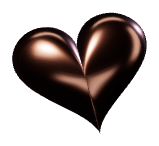
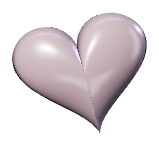
Connect approved desktop gift landing to existing game routes

diff --git a/src/preview/StudioScene.tsx b/src/preview/StudioScene.tsx
@@ -1,21 +1,22 @@
 import {useEffect,useRef,useState} from 'react';
 import * as T from 'three';
 import {createHeartGeometry} from './heartGeometry';
+import {createHeroMaterials} from './heroMaterials';
 import {createGameObject,normalizeSculpture,studioMaterials} from './studioObjects';
 import {gameCatalog} from '../games/catalog';
 
-type Props={mode:'hearts'|'games';selected?:string;paused:boolean;impulse?:number;onSelect?:(id:string)=>void};
+type Props={mode:'hearts'|'games';selected?:string;paused:boolean;impulse?:number;onSelect?:(id:string)=>void;onUnavailable?:()=>void};
 const heartLayout=[[1.2,.25,1.1,1.82,-.25],[3.55,-1.55,.2,1.2,.3],[3.45,2.18,-1.8,1.12,.35],[-.1,2.3,-1,.68,-.5],[5.1,.55,-1,.7,.1],[.15,-2.4,-1.8,.67,.3]];
 const heroLayout=[[-3.15,.65,.55,.65,-.25],[3.5,1.45,-1.1,.5,.16],[3.15,-1.7,.65,.62,.28]];
 export default function StudioScene(props:Props){
- const host=useRef<HTMLDivElement>(null),controls=useRef(props),redraw=useRef<()=>void>(()=>{}),[ready,setReady]=useState(false),[mounted,setMounted]=useState(props.mode==='hearts');
+ const host=useRef<HTMLDivElement>(null),controls=useRef(props),redraw=useRef<()=>void>(()=>{}),[ready,setReady]=useState(false),[failed,setFailed]=useState(false),[mounted,setMounted]=useState(props.mode==='hearts');
  controls.current=props;
  useEffect(()=>{if(mounted)return;const observer=new IntersectionObserver(([entry])=>{if(entry.isIntersecting){setMounted(true);observer.disconnect();}},{rootMargin:'250px'});observer.observe(host.current!);return()=>observer.disconnect();},[mounted]);
  useEffect(()=>{redraw.current();},[props.paused,props.selected,props.impulse]);
  useEffect(()=>{
   if(!mounted)return;
   const node=host.current!;let renderer:T.WebGLRenderer;
-  try{renderer=new T.WebGLRenderer({alpha:true,antialias:true,powerPreference:'low-power'});}catch{return;}
+  try{renderer=new T.WebGLRenderer({alpha:true,antialias:true,powerPreference:'low-power'});}catch{setFailed(true);controls.current.onUnavailable?.();return;}
   const scene=new T.Scene(),camera=new T.PerspectiveCamera(38,1,.1,50),materials=studioMaterials();
   renderer.setPixelRatio(Math.min(devicePixelRatio,1.5));renderer.toneMapping=T.ACESFilmicToneMapping;renderer.toneMappingExposure=1.08;
   const environmentScene=new T.Scene();environmentScene.background=new T.Color('#121016');
@@ -25,7 +26,7 @@ export default function StudioScene(props:Props){
   }
   const pmrem=new T.PMREMGenerator(renderer),environment=pmrem.fromScene(environmentScene,.06);scene.environment=environment.texture;pmrem.dispose();
   const key=new T.DirectionalLight('#ffe5d1',3);key.position.set(-4,6,8);scene.add(key);const rim=new T.DirectionalLight('#c6caff',1.7);rim.position.set(5,2,-3);scene.add(rim);scene.add(new T.HemisphereLight('#d5cbd6','#110d13',.55));
-  const heroChrome=materials.chrome.clone(),heroGold=materials.gold.clone();heroChrome.color.set('#818996');heroChrome.roughness=.18;heroChrome.envMapIntensity=1.5;heroGold.color.set('#ca9483');heroGold.roughness=.23;heroGold.envMapIntensity=1.3;
+  const heroMaterials=createHeroMaterials();
   const objects:T.Group[]=[];
   if(props.mode==='hearts')heartLayout.forEach((_,i)=>{const g=new T.Group();g.add(new T.Mesh(createHeartGeometry(),i===1||i===3?materials.gold:materials.chrome));scene.add(g);objects.push(g);});
   else gameCatalog.forEach(game=>{const g=normalizeSculpture(createGameObject(game.id,materials,()=>redraw.current()));g.userData.game=game.id;g.traverse(o=>{if(o instanceof T.Mesh){const originals=Array.isArray(o.material)?o.material:[o.material];const copies=originals.map(original=>{const material=original.clone() as T.MeshStandardMaterial;material.userData.baseColor=material.color.clone();material.userData.baseEnvironment=material.envMapIntensity;return material;});o.material=Array.isArray(o.material)?copies:copies[0];}});scene.add(g);objects.push(g);});
@@ -33,7 +34,7 @@ export default function StudioScene(props:Props){
   let ribbon:T.Mesh<T.TubeGeometry,T.MeshStandardMaterial>|undefined;
   if(props.mode==='hearts'){
    const curve=new T.CatmullRomCurve3([new T.Vector3(-4.6,-.1,1.6),new T.Vector3(-3.5,1.45,.5),new T.Vector3(-2.5,1.8,-1.4),new T.Vector3(0,.8,-2.8),new T.Vector3(3.2,-.4,-1),new T.Vector3(4.1,-1.25,.8)]);
-   const material=heroGold.clone();material.color.set('#936b59');material.roughness=.4;material.envMapIntensity=1.2;
+   const material=materials.gold.clone();material.color.set('#936b59');material.roughness=.4;material.envMapIntensity=1.2;
    ribbon=new T.Mesh(new T.TubeGeometry(curve,128,.026,8,false),material);scene.add(ribbon);
   }
   let width=0,height=0,viewWidth=0,viewHeight=0,viewLeft=0,viewTop=0,nodeLeft=0,nodeTop=0,mobile=false,time=0,curveTime=0,last=0,visible=true,disposed=false,loaded=false,impulse=props.impulse??0,energy=0,hovered=-1;
@@ -50,7 +51,7 @@ export default function StudioScene(props:Props){
    objects.forEach((g,i)=>{
     let x=0,y=0,z=0,size=1,rx=.13,ry=-.2,rz=0;
     if(props.mode==='hearts'){
-     g.visible=mobile||i<heroLayout.length;if(!g.visible)return;const base=mobile?heartLayout[i]:heroLayout[i];[x,y,z,size,rz]=base;const heart=g.children[0] as T.Mesh;heart.material=mobile?(i===1||i===3?materials.gold:materials.chrome):(i===1?heroChrome:heroGold);if(mobile){x=(x-2.15)*.65;y*=.9;size*=1.05;}else{const entry=controls.current.paused?1:1-Math.pow(1-Math.min(1,time/.9),3);ry-=(1-entry)*.18;y-=(1-entry)*.14;size*=.95+.05*entry;if(active&&hovered===i){ry+=.28+hoverPoint.x*.38;rx-=hoverPoint.y*.23;z+=.65;size*=1.075;}}
+     g.visible=mobile||i<heroLayout.length;if(!g.visible)return;const base=mobile?heartLayout[i]:heroLayout[i];[x,y,z,size,rz]=base;const heart=g.children[0] as T.Mesh;heart.material=mobile?(i===1||i===3?materials.gold:materials.chrome):heroMaterials[i];if(mobile){x=(x-2.15)*.65;y*=.9;size*=1.05;}else{const entry=controls.current.paused?1:1-Math.pow(1-Math.min(1,time/.9),3);ry-=(1-entry)*.18;y-=(1-entry)*.14;size*=.95+.05*entry;if(active&&hovered===i){ry+=.28+hoverPoint.x*.38;rx-=hoverPoint.y*.23;z+=.65;size*=1.075;}}
      if(active){y+=Math.sin(time*.6+i)*(mobile?.13:.04);x+=Math.sin(time*.5+i*.8)*(mobile?.08:.035);ry+=Math.sin(time*.35+i)*(mobile?.19:.045);rz+=Math.sin(time*.5+i)*(mobile?.06:.025);}
      x+=pointer.x*.13*(i%2?1:-1);y+=pointer.y*.1;z+=energy*Math.sin(i*1.8);size*=1+energy*.055;
     }else{
@@ -76,12 +77,12 @@ export default function StudioScene(props:Props){
   const move=(event:PointerEvent)=>{if(props.mode==='hearts')pointer.set((event.clientX+scrollX-nodeLeft)/width*2-1,-(event.clientY+scrollY-nodeTop)/height*2+1);else{const box=canvas.getBoundingClientRect();pointer.set((event.clientX-box.left)/box.width*2-1,-(event.clientY-box.top)/box.height*2+1);}if(props.mode==='hearts'&&!mobile&&finePointer.matches&&!controls.current.paused){const local=new T.Vector2((event.clientX+scrollX-nodeLeft-viewLeft)/viewWidth*2-1,-(event.clientY+scrollY-nodeTop-viewTop)/viewHeight*2+1);ray.setFromCamera(local,camera);const hit=ray.intersectObjects(objects.filter(g=>g.visible),true)[0];hovered=hit?objects.findIndex(g=>g===hit.object.parent):-1;if(hit){const point=hit.object.worldToLocal(hit.point.clone());hoverPoint.set(T.MathUtils.clamp(point.x,-1,1),T.MathUtils.clamp(point.y,-1,1));}}if(!controls.current.paused&&props.mode==='games')render();};
   const click=(event:PointerEvent)=>{if(controls.current.paused)return;move(event);if(props.mode==='hearts'){energy=.6;return;}ray.setFromCamera(pointer,camera);const hit=ray.intersectObjects(objects,true)[0];if(hit){let obj:T.Object3D=hit.object;while(obj.parent&& !obj.userData.game)obj=obj.parent;if(obj.userData.game)controls.current.onSelect?.(obj.userData.game);}};
   const leave=()=>{pointer.set(0,0);hovered=-1;};
-  const lost=(event:Event)=>{event.preventDefault();renderer.setAnimationLoop(null);setReady(false);};
+  const lost=(event:Event)=>{event.preventDefault();renderer.setAnimationLoop(null);setReady(false);setFailed(true);controls.current.onUnavailable?.();};
   const observer=new ResizeObserver(resize);observer.observe(node);const intersection=new IntersectionObserver(([entry])=>{visible=entry.isIntersecting;if(visible)render(true);});intersection.observe(node);
   inputNode.addEventListener('pointermove',move);canvas.addEventListener('pointerdown',click);inputNode.addEventListener('pointerleave',leave);canvas.addEventListener('webglcontextlost',lost);
   resize();
   return()=>{disposed=true;redraw.current=()=>{};renderer.setAnimationLoop(null);observer.disconnect();intersection.disconnect();inputNode.removeEventListener('pointermove',move);canvas.removeEventListener('pointerdown',click);inputNode.removeEventListener('pointerleave',leave);canvas.removeEventListener('webglcontextlost',lost);canvas.remove();
-   const geometries=new Set<T.BufferGeometry>(),mats=new Set<T.Material>();scene.traverse(o=>{if(o instanceof T.Mesh){geometries.add(o.geometry);(Array.isArray(o.material)?o.material:[o.material]).forEach(m=>mats.add(m));}});geometries.forEach(g=>g.dispose());mats.forEach(m=>{const map=(m as T.MeshStandardMaterial).map;map?.dispose();m.dispose();});if(!mats.has(heroChrome))heroChrome.dispose();if(!mats.has(heroGold))heroGold.dispose();environment.dispose();environmentScene.traverse(o=>{if(o instanceof T.Mesh){o.geometry.dispose();o.material.dispose();}});renderer.dispose();renderer.forceContextLoss();};
+   const geometries=new Set<T.BufferGeometry>(),mats=new Set<T.Material>();scene.traverse(o=>{if(o instanceof T.Mesh){geometries.add(o.geometry);(Array.isArray(o.material)?o.material:[o.material]).forEach(m=>mats.add(m));}});geometries.forEach(g=>g.dispose());mats.forEach(m=>{const map=(m as T.MeshStandardMaterial).map;map?.dispose();m.dispose();});heroMaterials.forEach(material=>{if(!mats.has(material))material.dispose();});environment.dispose();environmentScene.traverse(o=>{if(o instanceof T.Mesh){o.geometry.dispose();o.material.dispose();}});renderer.dispose();renderer.forceContextLoss();};
  },[props.mode,mounted]);
- return <div ref={host} className={`rd-studio rd-studio-${props.mode}`} data-ready={ready}>{!ready&&<span className="rd-render-fallback" role="status">PREPARING YOUR GIFT</span>}</div>;
+ return <div ref={host} className={`rd-studio rd-studio-${props.mode}`} data-ready={ready||failed}>{failed&&props.mode==='games'?<img className="rd-gallery-fallback" src={`/images/landing-preview/games/${props.selected||'domino'}.png`} alt="" aria-hidden="true"/>:!ready&&<span className="rd-render-fallback" role="status">PREPARING YOUR GIFT</span>}</div>;
 }

diff --git a/src/preview/LandingPreview.tsx b/src/preview/LandingPreview.tsx
@@ -3,16 +3,21 @@ import {gameCatalog} from '../games/catalog';
 import {previewCopy} from './copy';
 import {attachHeroMotion} from './heroMotion';
 import {RasterHearts} from './RasterHearts';
+import {HeroDecorations,attachHeroSparks} from './HeroDecorations';
+import {Link} from '../app/Router';
+import './preview.css';
 const StudioScene=lazy(()=>import('./StudioScene'));
-export function LandingPreview(){
+export function LandingPreview({connected=false}:{connected?:boolean}){
  const [language,setLanguage]=useState<'ko'|'es'>(()=>localStorage.getItem('dos-language')==='es'?'es':'ko');
  const [selected,setSelected]=useState('domino'),[open,setOpen]=useState(false),[paused,setPaused]=useState(false),[impulse,setImpulse]=useState(0);
  const [reduced,setReduced]=useState(()=>matchMedia('(prefers-reduced-motion: reduce)').matches),[desktop,setDesktop]=useState(()=>matchMedia('(min-width:751px)').matches);
  const hero=useRef<HTMLElement>(null),coupleImage=useRef<HTMLImageElement>(null),[heroArtReady,setHeroArtReady]=useState(false),[raster,setRaster]=useState<boolean|null>(null),impulseValue=useRef(0);impulseValue.current=impulse;
  const envelope=useRef<HTMLButtonElement>(null),close=useRef<HTMLButtonElement>(null),wasOpen=useRef(false),stage=useRef<HTMLDivElement>(null),object=useRef<HTMLDivElement>(null),paper=useRef<HTMLElement>(null),letterText=useRef<HTMLDivElement>(null);const [scrollLetter,setScrollLetter]=useState(false);const copy=previewCopy[language],game=gameCatalog.find(g=>g.id===selected)!;
- useEffect(()=>{document.documentElement.lang=language==='es'?'es-DO':'ko';localStorage.setItem('dos-language',language);},[language]);
+ useEffect(()=>{document.documentElement.lang=language==='es'?'es-DO':'ko';document.title='Yeonseok ♡ Lisbeth';localStorage.setItem('dos-language',language);},[language]);
+ useEffect(()=>{if(!connected)return;const target=({'#games':'gift-games','#papi-letter':'gift-letter','#gift-games':'gift-games','#gift-letter':'gift-letter'} as Record<string,string>)[location.hash];if(!target)return;const frame=requestAnimationFrame(()=>document.getElementById(target)?.scrollIntoView({behavior:'instant',block:'start'}));return()=>cancelAnimationFrame(frame);},[connected]);
  useEffect(()=>{const query=matchMedia('(prefers-reduced-motion: reduce)'),update=()=>setReduced(query.matches);query.addEventListener('change',update);return()=>query.removeEventListener('change',update);},[]);
  useEffect(()=>{const query=matchMedia('(min-width:751px)'),update=()=>setDesktop(query.matches);query.addEventListener('change',update);return()=>query.removeEventListener('change',update);},[]);
+ useEffect(()=>attachHeroSparks(hero.current!,paused||reduced),[paused,reduced]);
  useEffect(()=>attachHeroMotion(hero.current!,paused||reduced,()=>impulseValue.current),[paused,reduced,raster,desktop]);
  useEffect(()=>{let alive=true;coupleImage.current!.decode().catch(()=>{}).then(()=>requestAnimationFrame(()=>requestAnimationFrame(()=>{if(alive){const canvas=document.createElement('canvas'),gl=canvas.getContext('webgl2')||canvas.getContext('webgl');const info=gl?.getExtension('WEBGL_debug_renderer_info');const software=!gl||(info&&/swiftshader|llvmpipe|software/i.test(gl.getParameter(info.UNMASKED_RENDERER_WEBGL)));gl?.getExtension('WEBGL_lose_context')?.loseContext();setRaster(Boolean(software));setHeroArtReady(true);}})));return()=>{alive=false;};},[]);
  useEffect(()=>{if(open)close.current?.focus({preventScroll:true});else if(wasOpen.current)envelope.current?.focus({preventScroll:true});wasOpen.current=open;},[open]);
@@ -21,19 +26,19 @@ export function LandingPreview(){
  const openLetter=()=>{document.getElementById('gift-letter')?.scrollIntoView({behavior:'instant',block:'start'});setOpen(true);};
  const closeLetter=()=>setOpen(false);
  return <main className={`rd-page ${reduced||paused?'rd-still':''}`}>
-  <header className="rd-nav"><a href="#gift-top" className="rd-brand">Y <i>♡</i> L</a><nav aria-label={language==='ko'?'선물 메뉴':'Menú del regalo'}><button onClick={()=>go('gift-games')}>{copy.games}</button><button onClick={openLetter}>{copy.letter}</button><div className="rd-languages"><button aria-pressed={language==='ko'} onClick={()=>setLanguage('ko')}>KO</button><button aria-pressed={language==='es'} onClick={()=>setLanguage('es')}>ES</button></div></nav></header>
+  <header className="rd-nav"><a href="#gift-top" className="rd-brand">Y <i>♡</i> L</a><nav aria-label={language==='ko'?'선물 메뉴':'Menú del regalo'}><button onClick={()=>go('gift-games')}>{copy.games}</button><button onClick={openLetter}>{copy.letter}</button>{connected&&<Link href="/feedback">{language==='ko'?'너의 아이디어':'Tus ideas'}</Link>}<div className="rd-languages"><button aria-pressed={language==='ko'} onClick={()=>setLanguage('ko')}>KO</button><button aria-pressed={language==='es'} onClick={()=>setLanguage('es')}>ES</button></div></nav></header>
   <section ref={hero} className="rd-hero" id="gift-top">
-   <div className="rd-scene-space" aria-hidden="true"><div className="rd-scene-light"><div/></div><div className="rd-scene-fill"/><div className="rd-scene-shadow"/><div className="rd-scene-floor-light"/></div>
-   <div className="rd-hero-stage"><img className="rd-heart-fallback" src="/images/landing-preview/hero/hearts-neutral.png" width="1440" height="816" loading="eager" decoding="sync" alt="" aria-hidden="true"/>{heroArtReady&&(raster&&desktop?<RasterHearts/>:<Suspense fallback={<div className="rd-render-fallback" role="status">PREPARING YOUR GIFT</div>}><StudioScene mode="hearts" paused={paused||reduced} impulse={impulse}/></Suspense>)}</div>
+   <HeroDecorations/><div className="rd-scene-space" aria-hidden="true"><div className="rd-scene-light"><div/></div><div className="rd-scene-fill"/><div className="rd-scene-shadow"/><div className="rd-scene-floor-light"/></div>
+   <div className="rd-hero-stage"><img className="rd-heart-fallback" src="/images/landing-preview/hero/hearts-neutral.png" width="1440" height="816" loading="eager" decoding="sync" alt="" aria-hidden="true"/>{heroArtReady&&(raster&&desktop?<RasterHearts/>:<Suspense fallback={<div className="rd-render-fallback" role="status">PREPARING YOUR GIFT</div>}><StudioScene mode="hearts" onUnavailable={()=>setRaster(true)} paused={paused||reduced} impulse={impulse}/></Suspense>)}</div>
    <figure className="rd-couple"><div className="rd-couple-drift"><div className="rd-couple-art"><img className="rd-portrait-shadow" src="/images/landing-preview/hero/portrait-shadow.png" width="760" height="760" loading="eager" decoding="sync" alt="" aria-hidden="true"/><img ref={coupleImage} src="/images/yeonseok-lisbeth-cutout.webp" width="1254" height="1254" fetchPriority="high" loading="eager" decoding="sync" alt={language==='ko'?'연석과 Lisbeth의 기존 커플 캐리커처':'La caricatura de Yeonseok y Lisbeth'}/></div></div><figcaption><span>YEONSEOK <i>♡</i> LISBETH</span><small>{language==='ko'?'우리 둘, 같은 편.':'Tú y yo, del mismo lado.'}</small></figcaption></figure>
    <div className="rd-hero-copy"><span className="rd-kicker">FOR MY BABY, LISBETH</span><h1><span className="rd-baby-plane"><span className="rd-baby-arrival">{copy.title[0]}</span></span><span className="rd-message-plane"><span className="rd-message-arrival">{language==='ko'?<>이제 같이<span className="rd-mobile-break"><br/></span> 놀자.</>:<>juguemos<span className="rd-mobile-break"><br/></span> juntos.</>}</span></span></h1><p>{copy.body}</p><div className="rd-actions"><button className="rd-main-action" onClick={()=>go('gift-games')}>{copy.primary}<span>↗</span></button><button className="rd-line-action" onClick={openLetter}>{copy.secondary}<span>↗</span></button></div></div>
-   <div className="rd-hero-floor"><span>01 / FOR THE TWO OF US</span><div><button disabled={paused||reduced} onClick={()=>setImpulse(i=>i+1)}>{copy.nudge}</button><button aria-pressed={!paused&&!reduced} disabled={reduced} onClick={()=>setPaused(p=>!p)}>{reduced?copy.motionReduced:paused?copy.motionOff:copy.motionOn}</button></div><span className="rd-preview-badge">{copy.badge}</span></div>
+   <div className="rd-hero-floor"><span>01 / FOR THE TWO OF US</span><div><button disabled={paused||reduced} onClick={()=>setImpulse(i=>i+1)}>{copy.nudge}</button><button aria-pressed={!paused&&!reduced} disabled={reduced} onClick={()=>setPaused(p=>!p)}>{reduced?copy.motionReduced:paused?copy.motionOff:copy.motionOn}</button></div><span className="rd-preview-badge">{connected?'YEONSEOK ♡ LISBETH':copy.badge}</span></div>
   </section>
   <section className="rd-story"><span className="rd-kicker">A PLACE WHERE WE UNDERSTAND EACH OTHER</span><h2>{copy.storyTitle}</h2><div><p>{copy.story}</p><p><b>한국어 <i>↔</i> Español</b>{copy.bridge}</p></div></section>
   <section className="rd-games" id="gift-games"><header><span className="rd-kicker">02 / EIGHT LITTLE WORLDS</span><h2>{copy.gamesTitle}</h2><p>{copy.gamesBody}</p></header>
    <div className="rd-game-stage"><div className="rd-game-sculptures">{heroArtReady&&<Suspense fallback={<div className="rd-render-fallback" role="status">PREPARING YOUR GIFT</div>}><StudioScene mode="games" selected={selected} paused={paused||reduced} onSelect={setSelected}/></Suspense>}</div><div className="rd-game-caption" aria-live="polite"><span>{String(gameCatalog.indexOf(game)+1).padStart(2,'0')} / 08</span><h3>{game.title[language]}</h3><p>{game.subtitle[language]}</p></div></div>
    <div className="rd-game-choices" role="group" aria-label={copy.games}>{gameCatalog.map((item,i)=><button key={item.id} aria-pressed={selected===item.id} onClick={()=>setSelected(item.id)}><small>{String(i+1).padStart(2,'0')}</small><span>{item.title[language]}</span><i>↗</i></button>)}</div>
-   <p className="rd-preview-note">{copy.previewNote}</p>
+   <p className="rd-preview-note">{connected?<Link className="rd-game-start rd-main-action" href={`/play?game=${selected}`}>{copy.start}<span>↗</span></Link>:copy.previewNote}</p>
   </section>
   <section className={`rd-letter-section ${open?'is-open':''}`} id="gift-letter" aria-labelledby="gift-letter-heading" onKeyDown={e=>{if(e.key==='Escape'&&open){e.preventDefault();closeLetter();}}}>
    <header><span className="rd-kicker">03 / SEALED WITH LOVE</span><h2 id="gift-letter-heading">{copy.letterTitle}</h2><p>{language==='ko'?'실링을 눌러, baby. 이 편지는 너한테만.':'Toca el sello, baby. Esta carta es solo para ti.'}</p></header>

diff --git a/src/preview/HeroDecorations.tsx b/src/preview/HeroDecorations.tsx
@@ -1,0 +1,26 @@
+import type {CSSProperties} from 'react';
+const stars=[[8,13,10],[17,29,5],[28,21,12],[11,57,6],[24,62,8],[7,76,4],[19,45,4],[26,40,6],[78,9,8],[89,23,11],[95,39,5],[83,46,5],[94,61,12],[80,69,6],[88,79,4],[31,8,4]];
+const hearts=[[14,37,32,0,-18],[24,14,25,2,16],[87,13,30,1,20],[91,56,34,2,-14]];
+export function HeroDecorations(){return <div className="rd-hero-decorations" aria-hidden="true">
+ <img className="rd-cosmic-veil" src="/images/landing-preview/hero/nebula-fringe.png" width="1440" height="816" alt=""/>
+ {stars.map(([x,y,size],i)=><span key={i} className={`rd-star ${i%4===0?'rd-star-twinkle':''}`} style={{left:`${x}%`,top:`${y}%`,width:size,height:size,opacity:i%3===0?.8:.42,animationDelay:`${i*.7}s`}}/>)}
+ {hearts.map(([x,y,size,color,angle],i)=><img key={i} className="rd-tiny-heart" src={`/images/landing-preview/hero/heart-${color}-neutral.png`} width={size} height={size} alt="" style={{left:`${x}%`,top:`${y}%`,width:size,transform:`rotate(${angle}deg)`} as CSSProperties}/>)}
+ <span className="rd-meteor"/>
+ <div className="rd-hero-sparks" data-particle-count="0"/>
+ </div>;}
+
+export function attachHeroSparks(hero:HTMLElement,paused:boolean){
+ const host=hero.querySelector<HTMLElement>('.rd-hero-sparks')!,fine=matchMedia('(hover:hover) and (pointer:fine)'),particles=new Map<HTMLElement,Animation>();let last=0,lastX=-1000,lastY=-1000,visible=true,meteorCount=0;const meteor=hero.querySelector<HTMLElement>('.rd-meteor')!;let meteorAnimation:Animation|undefined;
+ const emit=(event:PointerEvent)=>{
+  const now=performance.now();if(paused||!fine.matches||document.hidden||now-last<750||Math.hypot(event.clientX-lastX,event.clientY-lastY)<80||particles.size>=8)return;
+  if((event.target as Element).closest('button,a'))return;
+  for(const node of hero.querySelectorAll('.rd-couple,.rd-baby-plane,.rd-message-plane,.rd-actions')){const r=node.getBoundingClientRect();if(event.clientX>=r.left-18&&event.clientX<=r.right+18&&event.clientY>=r.top-18&&event.clientY<=r.bottom+18)return;}
+  const box=hero.getBoundingClientRect();last=now;lastX=event.clientX;lastY=event.clientY;
+  for(let i=0;i<4;i++){const node=document.createElement('span');node.className=i===1?'rd-spark-heart':'rd-star rd-spark-star';node.style.left=`${event.clientX-box.left}px`;node.style.top=`${event.clientY-box.top}px`;if(i===1)node.style.backgroundImage="url('/images/landing-preview/hero/heart-1-neutral.png')";host.appendChild(node);const angle=i*Math.PI/2+.35,dx=Math.cos(angle)*38,dy=Math.sin(angle)*30-10;
+   const animation=node.animate([{opacity:0,transform:'translate3d(0,0,0) scale(.95)'},{opacity:.9,offset:.18,transform:`translate3d(${dx*.3}px,${dy*.3}px,0) scale(1.06)`},{opacity:0,transform:`translate3d(${dx}px,${dy}px,0) scale(.95)`}],{duration:650,easing:'cubic-bezier(0.23,1,0.32,1)'});particles.set(node,animation);animation.finished.catch(()=>{}).finally(()=>{particles.delete(node);node.remove();host.dataset.particleCount=String(particles.size);});
+  }host.dataset.particleCount=String(particles.size);
+ };
+ const passMeteor=()=>{if(!visible||document.hidden||meteorAnimation)return;const right=meteorCount++%2===0;meteor.style.left=right?'88%':'14%';meteor.style.top=right?'13%':'20%';meteor.style.rotate=right?'146deg':'34deg';meteorAnimation=meteor.animate([{opacity:0,transform:'translate3d(0,0,0)'},{opacity:.7,offset:.22,transform:`translate3d(${right?-28:28}px,18px,0)`},{opacity:0,transform:`translate3d(${right?-110:110}px,70px,0)`}],{duration:1100,easing:'linear'});meteorAnimation.finished.catch(()=>{}).finally(()=>{meteorAnimation=undefined;});};
+ const observer=new IntersectionObserver(([entry])=>{visible=entry.isIntersecting;if(!visible)meteorAnimation?.cancel();});let first:number|undefined,repeat:number|undefined;if(!paused){hero.addEventListener('pointermove',emit);observer.observe(hero);first=window.setTimeout(passMeteor,4500);repeat=window.setInterval(passMeteor,15000);}
+ return()=>{observer.disconnect();clearTimeout(first);clearInterval(repeat);meteorAnimation?.cancel();hero.removeEventListener('pointermove',emit);particles.forEach((animation,node)=>{animation.cancel();node.remove();});particles.clear();host.dataset.particleCount='0';};
+}

diff --git a/src/preview/preview.css b/src/preview/preview.css
@@ -1,8 +1,8 @@
 @font-face{font-family:GiftSerif;src:url('/fonts/gowun-batang-display.woff2') format('woff2');font-display:swap}
 @font-face{font-family:GiftSans;src:url('/fonts/dm-sans-regular.ttf') format('truetype');font-display:swap}
 @font-face{font-family:GiftSans;src:url('/fonts/dm-sans-700.ttf') format('truetype');font-weight:700;font-display:swap}
-:root{font-family:GiftSans,Arial,sans-serif;color:#efdfd6;background:#0c080e;font-synthesis:none;--rose:#d3a491;--muted:#c1acb4;--line:#d3a49135}
-*{box-sizing:border-box}html{scroll-behavior:smooth}body{margin:0}button,a{-webkit-tap-highlight-color:transparent}button{font:inherit;color:inherit;cursor:pointer;border:0;background:none}button:disabled{cursor:default;opacity:.5}button[hidden]{display:none}a{color:inherit;text-decoration:none}button:focus-visible,a:focus-visible,[tabindex]:focus-visible{outline:2px solid #f5c3a6;outline-offset:5px}h1,h2,h3,p{margin:0}p{line-height:1.8}i{font-style:normal}
+.rd-page{font-family:GiftSans,Arial,sans-serif;color:#efdfd6;background:#0c080e;font-synthesis:none;--rose:#d3a491;--muted:#c1acb4;--line:#d3a49135}
+.rd-page,.rd-page *{box-sizing:border-box}.rd-page :where(button,a){-webkit-tap-highlight-color:transparent}:where(.rd-page) button{font:inherit;color:inherit;cursor:pointer;border:0;background:none}.rd-page button:disabled{cursor:default;opacity:.5}.rd-page button[hidden]{display:none}.rd-page a{color:inherit;text-decoration:none}.rd-page :where(button,a,[tabindex]):focus-visible{outline:2px solid #f5c3a6;outline-offset:5px}.rd-page :where(h1,h2,h3,p){margin:0}.rd-page p{line-height:1.8}.rd-page i{font-style:normal}
 .rd-page{overflow:clip;background:radial-gradient(ellipse at 65% 12%,#24182255,transparent 33%),#0c080e}
 .rd-nav{height:84px;display:flex;justify-content:space-between;align-items:center;padding:0 6vw;position:relative;z-index:4;border-bottom:1px solid var(--line)}
 .rd-brand{font:29px Georgia,serif;letter-spacing:5px}.rd-brand i{color:var(--rose);font-size:20px}.rd-nav nav{display:flex;align-items:center;gap:28px;font-size:15px}.rd-nav button{min-height:44px}.rd-languages{border-left:1px solid var(--line);padding-left:24px;display:flex;gap:4px}.rd-languages button{padding:8px;color:#b8a2ac}.rd-languages button[aria-pressed=true]{color:#f0ddce;border-bottom:1px solid var(--rose)}
@@ -56,3 +56,10 @@
  .rd-envelope-object{width:min(70vw,820px);height:200px;top:max(calc(50% - 100px),150px)}
  .rd-paper{padding:18px 30px}.rd-paper-address{margin-top:12px}.rd-paper h3{font-family:Georgia,GiftSerif,serif;font-size:27px;margin:10px 0 14px}.rd-paper-signature{font-family:Georgia,GiftSerif,serif;font-size:22px;margin-top:14px}.rd-letter-text{font-size:15.5px;line-height:1.65}
 }
+
+.rd-hero-decorations{display:none}
+@media(min-width:1024px) and (pointer:fine){.rd-hero-decorations{display:block;position:absolute;inset:0;z-index:1;pointer-events:none;overflow:hidden}.rd-star{position:absolute;background:linear-gradient(135deg,#fff2df,#d8aacd);clip-path:polygon(50% 0,61% 39%,100% 50%,61% 61%,50% 100%,39% 61%,0 50%,39% 39%)}.rd-star-twinkle{animation:rd-twinkle 8s ease-in-out infinite}.rd-tiny-heart{position:absolute;display:block;height:auto;opacity:.8}.rd-spark-star{width:12px;height:12px}.rd-spark-heart{position:absolute;width:19px;height:19px;background-size:contain;background-repeat:no-repeat}.rd-game-start{min-width:190px;text-align:left}.rd-nav nav>a{min-height:44px;display:inline-flex;align-items:center}.rd-still .rd-star{animation:none}}
+@keyframes rd-twinkle{0%,100%{opacity:.25}50%{opacity:.8}}
+@media(prefers-reduced-motion:reduce){.rd-star{animation:none!important}}
+
+.rd-cosmic-veil{position:absolute;inset:0;width:100%;height:100%;opacity:.32}.rd-meteor{position:absolute;width:90px;height:2px;background:linear-gradient(90deg,#fff0da,transparent);opacity:0;transform-origin:0 50%;border-radius:50%}.rd-gallery-fallback{display:block;width:100%;height:100%;object-fit:contain}

diff --git a/vite.preview.config.ts b/vite.preview.config.ts
@@ -4,7 +4,7 @@ import { fileURLToPath } from 'node:url';
 import { defineConfig } from 'vite';
 
 const root = fileURLToPath(new URL('.', import.meta.url));
-const previewAssets = ['images/yeonseok-lisbeth-cutout.webp', 'fonts/gowun-batang-display.woff2', 'fonts/GOWUN-BATANG-OFL.txt', 'fonts/dm-sans-regular.ttf', 'fonts/dm-sans-700.ttf', 'fonts/DM-SANS-OFL.txt', 'images/landing-preview/organic-rose-generated.png', ...['hearts-neutral','light-key','light-fill','light-shadow','light-floor','curve-neutral','portrait-shadow',...Array.from({length:3},(_,i)=>['neutral','left','right'].map(light=>`heart-${i}-${light}`)).flat()].map(name=>`images/landing-preview/hero/${name}.png`), 'images/hwatu/01-01.svg', 'images/hwatu/03-01.svg', 'images/hwatu/08-01.svg'];
+const previewAssets = ['images/yeonseok-lisbeth-cutout.webp', 'fonts/gowun-batang-display.woff2', 'fonts/GOWUN-BATANG-OFL.txt', 'fonts/dm-sans-regular.ttf', 'fonts/dm-sans-700.ttf', 'fonts/DM-SANS-OFL.txt', 'images/landing-preview/organic-rose-generated.png', ...['hearts-neutral','light-key','light-fill','light-shadow','light-floor','curve-neutral','portrait-shadow','nebula-fringe',...Array.from({length:3},(_,i)=>['neutral','left','right'].map(light=>`heart-${i}-${light}`)).flat()].map(name=>`images/landing-preview/hero/${name}.png`), ...['davinci','catchmind','domino','jaipur','splendor','minhwatu','marble','rhythm'].map(game=>`images/landing-preview/games/${game}.png`), 'images/hwatu/01-01.svg', 'images/hwatu/03-01.svg', 'images/hwatu/08-01.svg'];
 
 export default defineConfig({
   server: { host: '127.0.0.1', port: 5204 },

diff --git a/landing-preview.html b/landing-preview.html
@@ -1,1 +1,1 @@
-<!doctype html><html lang="ko"><head><meta charset="UTF-8"/><meta name="viewport" content="width=device-width,initial-scale=1"/><meta name="theme-color" content="#0b090c"/><meta name="robots" content="noindex,nofollow"/><title>For my baby · Design preview</title><style>html,body,#preview-root{margin:0;min-height:100vh;background:#0c080e;color:#efdfd6}#preview-root>.boot-note{display:grid;place-items:center;height:100vh;font:12px system-ui;letter-spacing:.2em;color:#d3a491}</style><link rel="preload" as="image" href="/images/yeonseok-lisbeth-cutout.webp" fetchpriority="high"/></head><body><div id="preview-root"><div class="boot-note" role="status">FOR MY BABY · LISBETH</div></div><script type="module" src="/src/preview/main.tsx"></script></body></html>
+<!doctype html><html lang="ko"><head><meta charset="UTF-8"/><meta name="viewport" content="width=device-width,initial-scale=1"/><meta name="theme-color" content="#0b090c"/><meta name="robots" content="noindex,nofollow"/><title>For my baby · Design preview</title><style>html,body,#preview-root{margin:0;min-height:100vh;background:#0c080e;color:#efdfd6}#preview-root>.boot-note{display:grid;place-items:center;height:100vh;font:12px system-ui;letter-spacing:.2em;color:#d3a491}</style><link rel="preload" as="image" href="/images/yeonseok-lisbeth-cutout.webp" fetchpriority="high"/></head><body style="margin:0;background:#0c080e"><div id="preview-root"><div class="boot-note" role="status">FOR MY BABY · LISBETH</div></div><script type="module" src="/src/preview/main.tsx"></script></body></html>

diff --git a/src/app/App.tsx b/src/app/App.tsx
@@ -1,5 +1,6 @@
 import { Suspense, lazy, useEffect, useState } from 'react';
 import { Landing } from '../landing/Landing';
+import { LandingPreview } from '../preview/LandingPreview';
 import { Link } from './Router';
 import { canEnterPlayRoute, DESKTOP_GAME_QUERY } from '../core/display';
 import { DesktopGameNotice } from './DesktopGameNotice';
@@ -22,7 +23,7 @@ export function App() {
     window.addEventListener('popstate', onPop);
     return () => window.removeEventListener('popstate', onPop);
   }, []);
-  if (path === '/') return <Landing />;
+  if (path === '/') return canPlay ? <LandingPreview connected/> : <Landing />;
   if (path !== '/feedback' && !canEnterPlayRoute(canPlay, path)) return <DesktopGameNotice language={localStorage.getItem('dos-language') === 'es' ? 'es' : 'ko'}/>;
   return <Suspense fallback={<main className="loading-screen"><strong>{localStorage.getItem('dos-language') === 'es' ? 'Nosotros' : '우리 둘'}</strong><span className="loader"/><p>{localStorage.getItem('dos-language') === 'es' ? 'Cargando juegos…' : '게임방을 불러오는 중…'}</p></main>}>{path === '/feedback' ? <FeedbackRoute/> : <PlayApp path={path} desktopDisplay={canPlay} />}</Suspense>;
 }

diff --git a/src/preview/heroMaterials.ts b/src/preview/heroMaterials.ts
@@ -1,0 +1,9 @@
+import * as T from 'three';
+
+export function createHeroMaterials(){
+ return [
+  new T.MeshPhysicalMaterial({color:'#efad9c',metalness:.65,roughness:.28,clearcoat:1,envMapIntensity:1.3,emissive:'#612438',emissiveIntensity:.08}),
+  new T.MeshPhysicalMaterial({color:'#d55280',metalness:.42,roughness:.24,clearcoat:1,envMapIntensity:1.4,emissive:'#541122',emissiveIntensity:.12}),
+  new T.MeshPhysicalMaterial({color:'#e7d9f2',metalness:.28,roughness:.22,clearcoat:1,envMapIntensity:1.3,iridescence:1,iridescenceIOR:1.3,iridescenceThicknessRange:[100,400]}),
+ ];
+}
